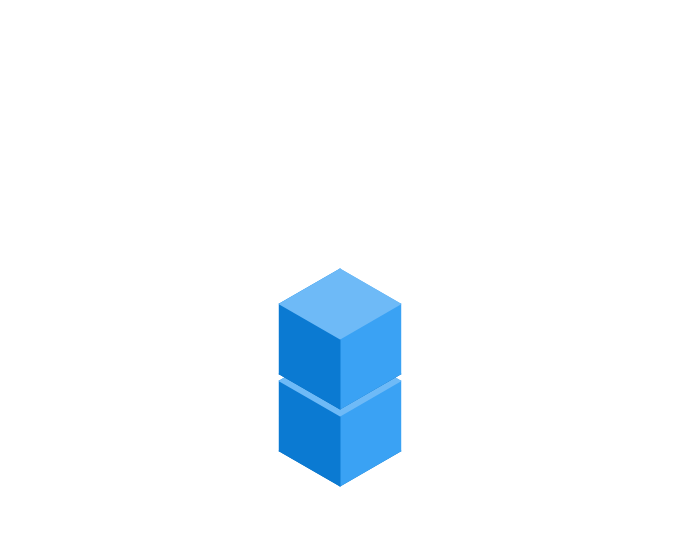
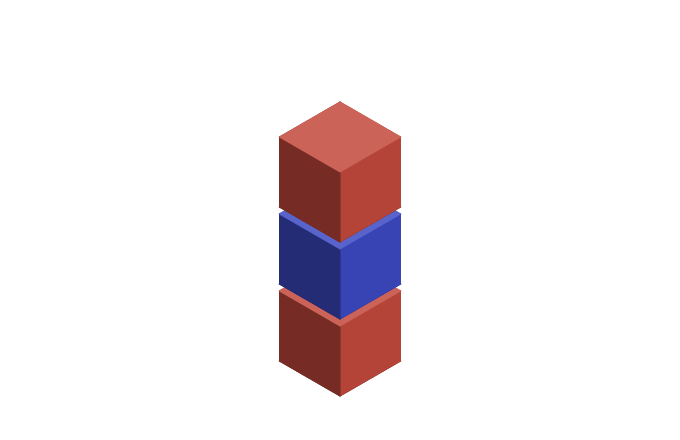
* improve translate screenshot

Changed region(s): [[0.4015, 0.2364, 0.6176, 0.9159]]

diff --git a/lib/src/androidTest/java/io/fabianterhorst/isometric/screenshot/IsometricViewTest.java b/lib/src/androidTest/java/io/fabianterhorst/isometric/screenshot/IsometricViewTest.java
@@ -93,7 +93,7 @@ public class IsometricViewTest {
         translate(view);
         ViewHelpers.setupView(view)
                 .setExactWidthPx(680)
-                .setExactHeightPx(540)
+                .setExactHeightPx(440)
                 .layout();
         Screenshot.snap(view)
                 .record();
@@ -185,9 +185,12 @@ public class IsometricViewTest {
     }
 
     public void translate(IsometricView isometricView) {
-        Prism prism = new Prism(new Point(0, 0, 0));
-        isometricView.add(prism, new Color(33, 150, 243));
-        isometricView.add(prism.translate(0, 0, 1.1), new Color(33, 150, 243));
+        Color blue = new Color(50, 60, 160);
+        Color red = new Color(160, 60, 50);
+        Prism cube = new Prism(new Point(0, 0, 0));
+        isometricView.add(cube, red);
+        isometricView.add(cube.translate(0, 0, 1.1), blue);
+        isometricView.add(cube.translate(0, 0, 2.2), red);
     }
 
     public void scale(IsometricView isometricView) {
